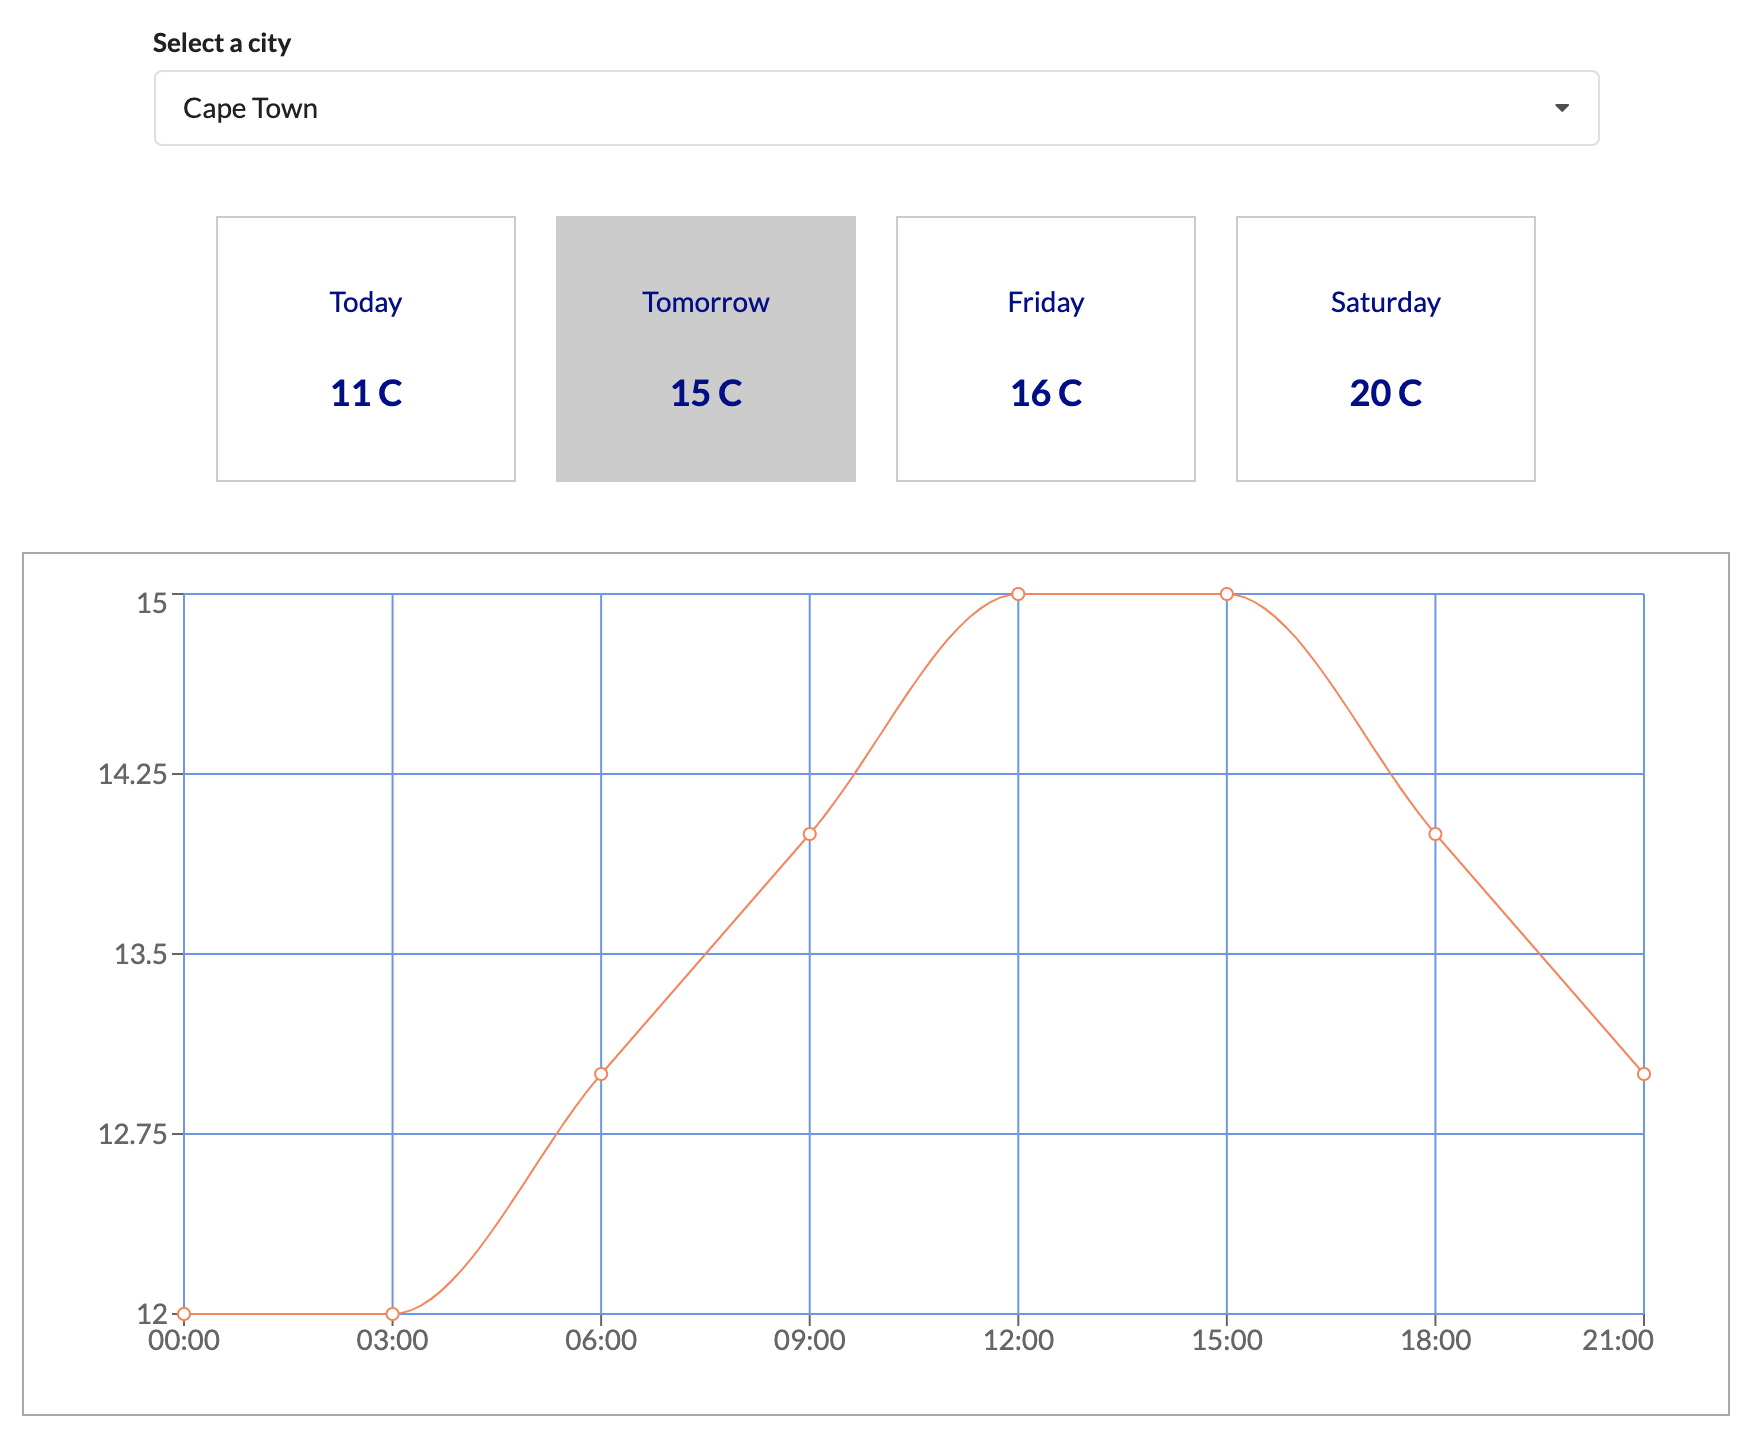
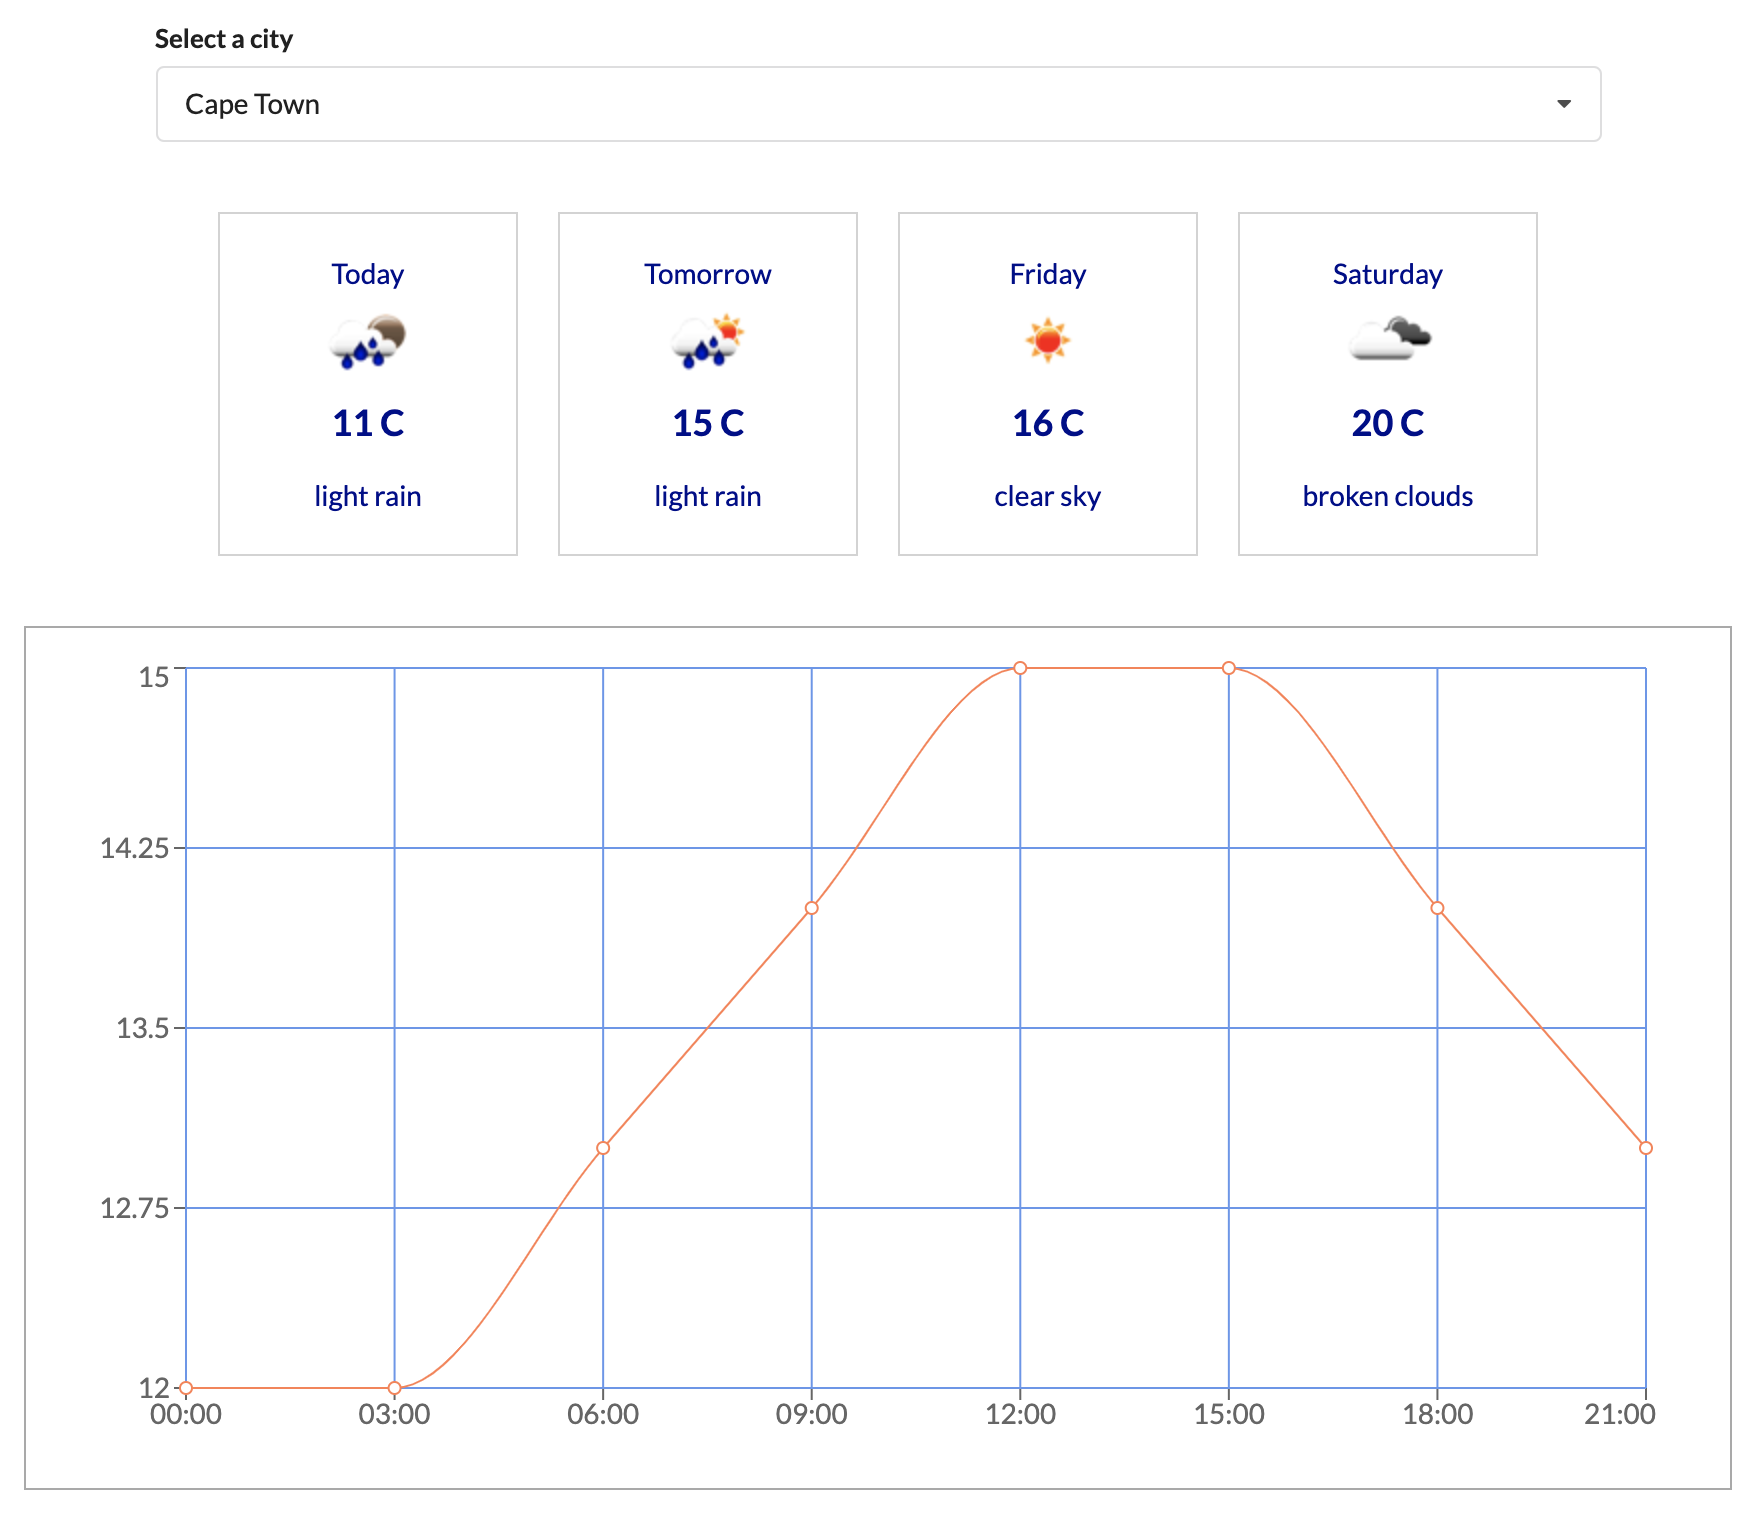
Updated preview image.

diff --git a/src/components/WeeklyForecast.js b/src/components/WeeklyForecast.js
@@ -13,6 +13,7 @@ const StyledCard = styled.div`
 	justify-content: center;
 	align-items: center;
 	margin: 10px;
+	padding: 20px;
 	max-width: 150px;
 	width: 100%;
 	min-height: 150px;
@@ -25,6 +26,23 @@ const StyledCardContent = styled.div`
 	padding: 30px,
 	min-height: 200px;
 	cursor: 'pointer',
+`;
+
+const StyledCardContentTitle = styled.p`
+	margin: 0;
+`;
+
+const StyledCardContentIcon = styled.img`
+	width: 50px;
+	height: 50px;
+`;
+
+const StyledCardContentSubtitle = styled.h3`
+	margin: 0;
+`;
+
+const StyledCardContentDescription = styled.p`
+	margin-top: 15px;
 `;
 
 const WeeklyForecast = ({ forecastData, onSelectDay, activeDay }) => {
@@ -60,12 +78,21 @@ const WeeklyForecast = ({ forecastData, onSelectDay, activeDay }) => {
 
 				const description = forecast.weather[0].description;
 
+				const icon = forecast.weather[0].icon;
+
 				return (
 					<StyledCard key={forecast.dt}>
 						<StyledCardContent onClick={() => onSelectDay(date)}>
-							<p className="header">{readableDate}</p>
-							<h3 className="description">{readableTemperature}</h3>
-							<p className="description">{description}</p>
+							<StyledCardContentTitle>{readableDate}</StyledCardContentTitle>
+							<StyledCardContentIcon
+								src={`http://openweathermap.org/img/w/${icon}.png`}
+							></StyledCardContentIcon>
+							<StyledCardContentSubtitle>
+								{readableTemperature}
+							</StyledCardContentSubtitle>
+							<StyledCardContentDescription>
+								{description}
+							</StyledCardContentDescription>
 						</StyledCardContent>
 					</StyledCard>
 				);
